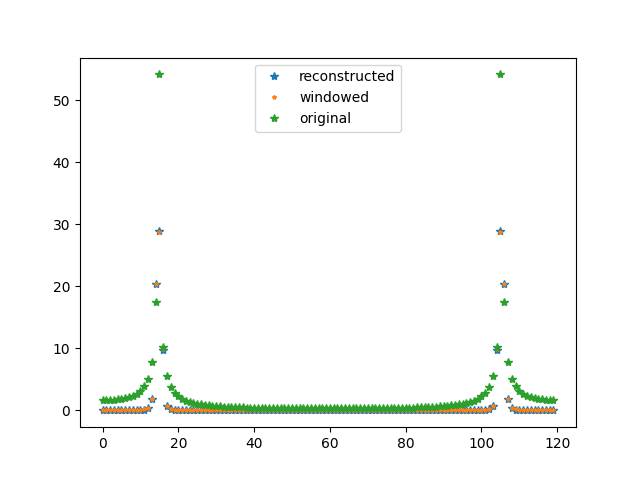
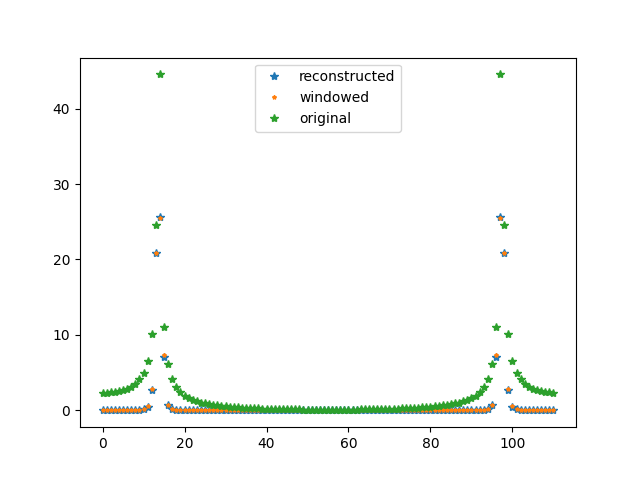
5c not playing nice

diff --git a/ass4/p5.py b/ass4/p5.py
@@ -3,15 +3,34 @@ import numpy as np
 #done with the antics this will be normal code
 
 ## lets fft a non integer sine wave 
-x = np.arange(120)
+x = np.arange(111)
 my_sin = np.sin(2 * np.pi * 0.123 * x)
 
 my_ft = np.fft.fft(my_sin)
 
 from matplotlib import pyplot as plt
+
+
+##and we compare to analytics
+
+def analytic(k,l):
+    comp_exp = lambda arg: np.exp(-2j* np.pi * arg)
+    term_1 = (1-comp_exp(k-0.123)/(1-comp_exp((k-0.123)/(x.size))))
+    term_2 = (1-comp_exp(k+0.123)/(1-comp_exp((k+0.123)/(x.size))))
+    return 1/(2j * (x.size)) * (term_1 - term_2)
+
+expected_ft = analytic(np.fft.fftfreq(x.size), 0.123)
+
+print("the difference between computed and expected: ", np.std((my_ft) - (expected_ft)))
+# print((my_ft) - (expected_ft))
 plt.clf()
-plt.plot(np.abs(my_ft), "*")
+plt.plot(np.abs(expected_ft), "*", label="expected")
+plt.plot(np.abs(my_ft), '*', label="computed")
+plt.legend()
 plt.savefig("output/spectral_leackage.png")
+##idk why the hell they arent identical. This is some numpy sneaking bullshit
+
+
 
 ##now we multiply by 0.5  - 0.5 cos(...) which numpy has packaged for us as the hanning window
 

diff --git a/ass4/p1.py b/ass4/p1.py
@@ -26,6 +26,7 @@ def my_shift(my_array, my_shift):
         my_conv[(my_shift + my_counter)%my_lenght] = 0
     return my_ans
 
+##does the convolution as requested i think
 def fft_shift(arr, shift):
     ##start by defining the array to convolve with:
     conv = np.zeros_like(arr)
@@ -45,6 +46,4 @@ if __name__ == "__main__":
     plt.plot(my_gauss_shift)
     plt.savefig("output/my_shifted_gauss.png")
 
-# yep this looks as expected since if we convolve a gaussian with itself its gonna look "the same " when you are not shifting 
-# then as u "slide" it starts to be more and more different untill the circular nature takes back over and we match on the other side
-# not surprises here
+# as expected a shifted gaussian

diff --git a/ass4/p2.py b/ass4/p2.py
@@ -34,6 +34,6 @@ if __name__ == "__main__":
     plt.plot(my_gauss_self_correlation)
     plt.savefig("output/my_guass_self_correlation")
 
-##works as expected if you move it off to the side its not the same without a shift:
-##but as the autocorleation slides over and allines them it works as expected
+##works as expected if you "slide" it off to the side its not the same:
+##but as the autocorleation slides  almost all the way around it allignes once again.
 #no magic here
